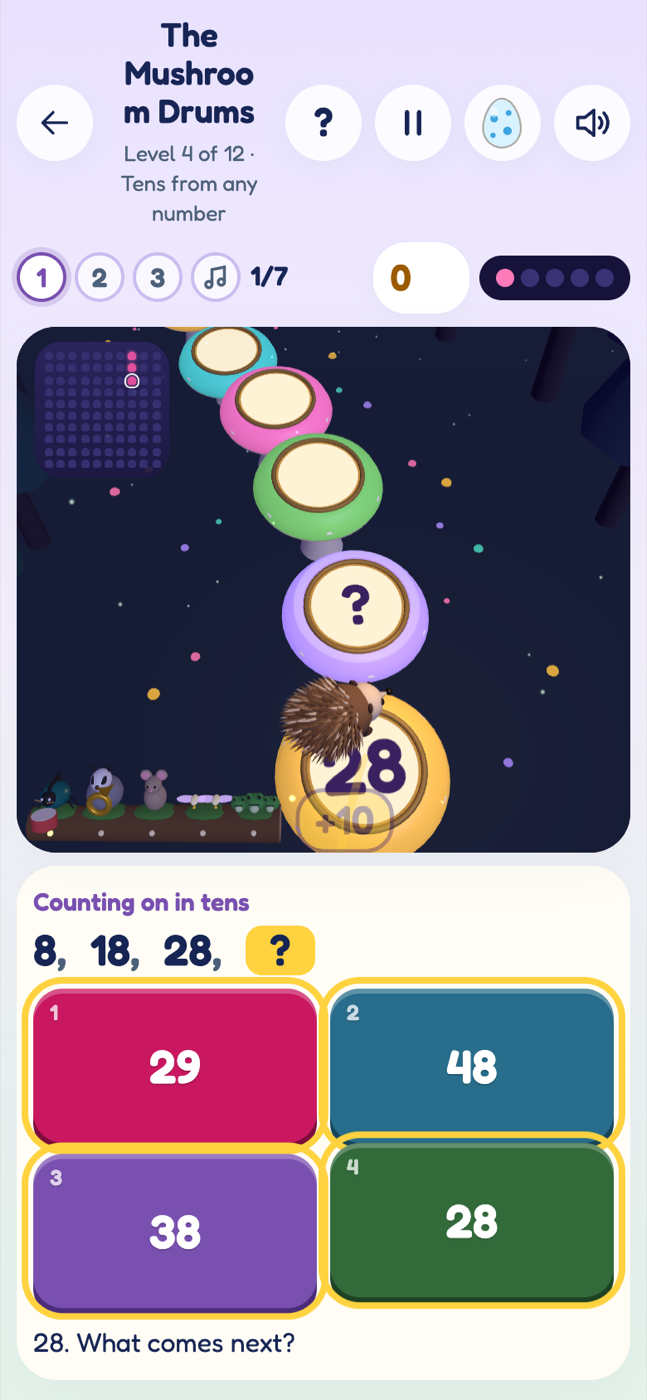
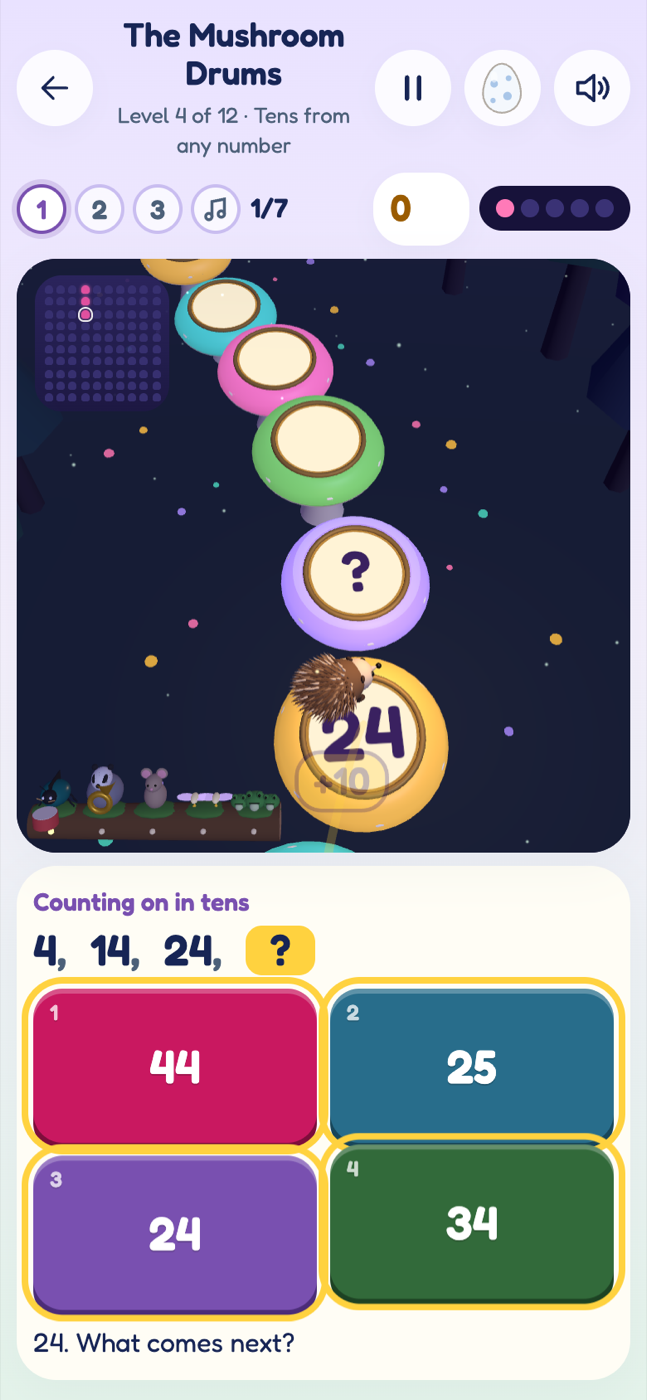
fix(drums): first-playthrough polish (#234)
A best streak that matches the first tries, Pom clear of his number on phones and iPads, a prompt that doesn't give the demo away, and one header button on narrow phones.

diff --git a/src/app/pages/drums/drums.ts b/src/app/pages/drums/drums.ts
@@ -209,7 +209,11 @@ export class Drums {
     const target = mushrooms[index];
     let first = index;
     while (first > 0 && !mushrooms[first].fresh) first--;
-    const shown = mushrooms.slice(Math.max(first, index - 3), index).map((m) => m.value);
+    // Only the numbers Pom has reached show, so the demo hops are not given away early.
+    const reached = play.hop ? play.hop.to : play.at;
+    const shown = mushrooms
+      .slice(Math.max(first, index - 3), Math.min(index, reached + 1))
+      .map((m) => m.value);
     const before = !!target.before;
     const parts = before ? ['?', ...shown.reverse().map(String)] : [...shown.map(String), '?'];
     const step = before ? -target.step : target.step;

diff --git a/src/app/pages/drums/drum-round.ts b/src/app/pages/drums/drum-round.ts
@@ -253,7 +253,8 @@ export function answer(play: DrumPlay, value: number, now: number): Step {
       events.push({ kind: 'layer', layers, up: false });
     }
   }
-  const streak = firstTry ? stats.streak + 1 : 0;
+  // The streak, like the stars, counts the verses; the solo neither adds to it nor breaks it.
+  const streak = solo ? stats.streak : firstTry ? stats.streak + 1 : 0;
   // On the beat, Pom lands on the landing beat; otherwise he jumps straight away.
   const jump = jumpSeconds(play);
   const end = onBeat && now < play.landing ? play.landing : now + jump;

diff --git a/src/app/pages/drums/drum-world.ts b/src/app/pages/drums/drum-world.ts
@@ -305,6 +305,8 @@ export class DrumWorld extends Stage implements StateWorld<DrumFrame> {
   }
 
   protected override layout(aspect: number) {
+    // On all but wide boards Pom shrinks a little, so his spines leave his own number readable.
+    this.pom.group.scale.setScalar(aspect < 1.4 ? 0.78 : 0.95);
     // Narrow boards pull back and widen the view so the path's sway and the next mushrooms fit.
     const narrow = aspect < 1.25 ? 1.25 / aspect : 1;
     this.camera.fov = 44 + Math.min(12, (narrow - 1) * 10);

diff --git a/src/app/pages/drums/drum-round.spec.ts b/src/app/pages/drums/drum-round.spec.ts
@@ -135,6 +135,8 @@ describe('mushroom drums timing', () => {
     expect(done.play.phase).toBe('done');
     // The solo is a bonus: only verse questions count for stars.
     expect(done.play.stats.firstTry).toBe(2);
+    // The streak counts verse drums only, so it never tops the first-try tile.
+    expect(done.play.stats.bestStreak).toBe(2);
   });
 
   it('skips the title and demo straight to the first question', () => {

diff --git a/src/app/pages/drums/drums.css b/src/app/pages/drums/drums.css
@@ -249,6 +249,10 @@
 }
 /* A narrow phone keeps the HUD on one row. */
 @media (max-width: 480px) {
+  /* The pause dialog holds the film too, so one button is enough and the title keeps its room. */
+  .help-button {
+    display: none;
+  }
   .drum-count .short {
     display: inline;
   }
